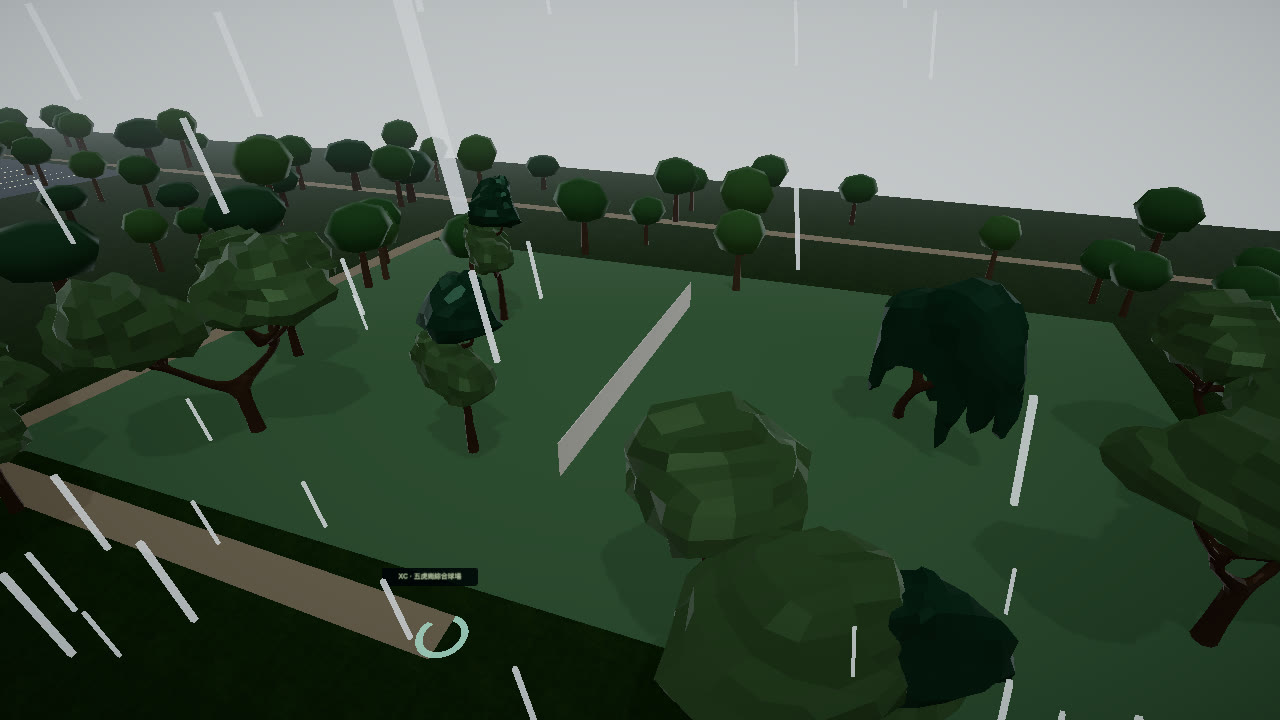
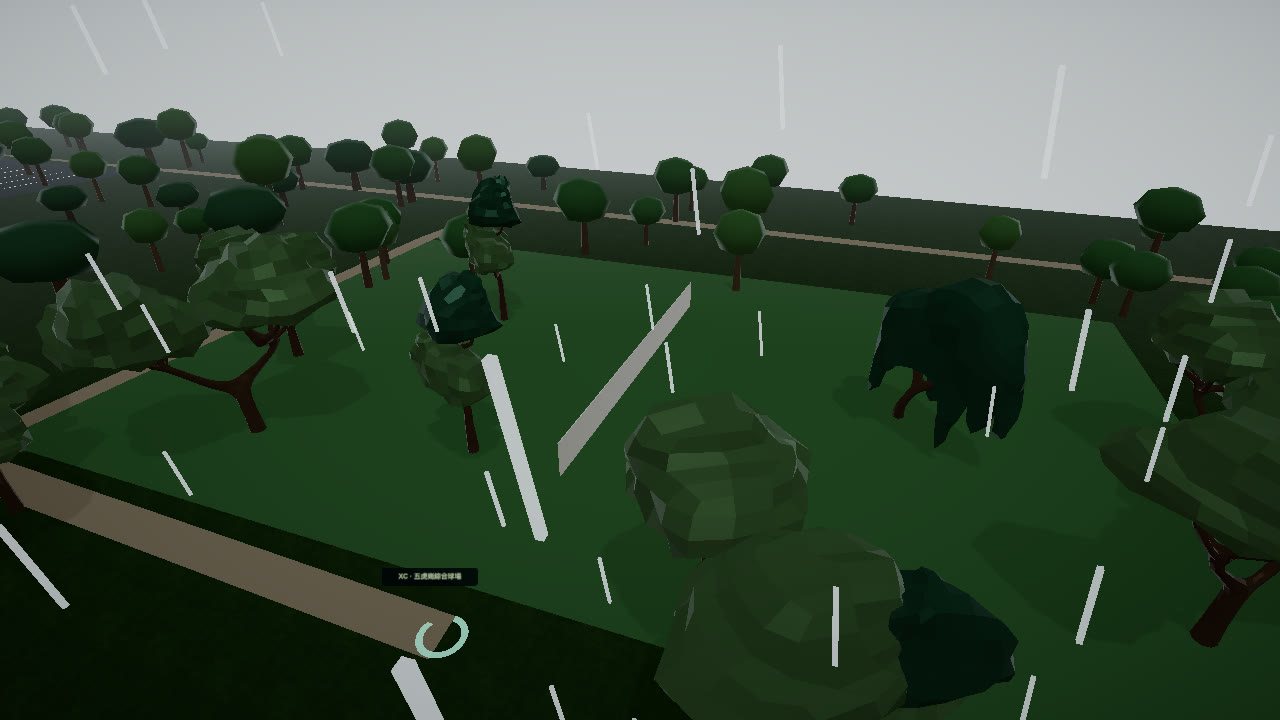
Scale wet court colors down so rain lowers their luminance.
Mixing them toward the library grey lightened asphalt, grass, and track rubber. The test now requires linear luminance to drop.

diff --git a/src/game/materials/wet.ts b/src/game/materials/wet.ts
@@ -1,18 +1,24 @@
 import * as THREE from "three";
 
-/** Same grey the material library mixes in when a surface is wet. */
-const WET_TINT = new THREE.Color("#7d8288");
-
 /**
- * Darken and smooth an untextured colour the same way the library materials do.
- * `response` is how absorbent the surface is, 0..1.
+ * Darken and smooth an untextured colour when it is wet.
+ *
+ * Library materials mix a grey into a white tint that then multiplies a
+ * texture. These court colours are already darker than that grey, so the same
+ * mix would lighten them. Scale the colour down instead.
  */
 export function wetSurface(color: string, wetness = 0, response = 0.6, roughness = 0.9) {
   const wet = Math.min(1, Math.max(0, wetness)) * response;
   const base = new THREE.Color(color);
-  if (wet > 0) base.lerp(WET_TINT, wet * 0.45);
+  if (wet > 0) base.multiplyScalar(1 - wet * 0.42);
   return {
     color: `#${base.getHexString()}`,
     roughness: Math.max(0.05, roughness - wet * 0.55),
   };
+}
+
+/** Relative luminance of an sRGB hex colour, in linear light. */
+export function surfaceLuminance(color: string) {
+  const { r, g, b } = new THREE.Color(color);
+  return 0.2126 * r + 0.7152 * g + 0.0722 * b;
 }
